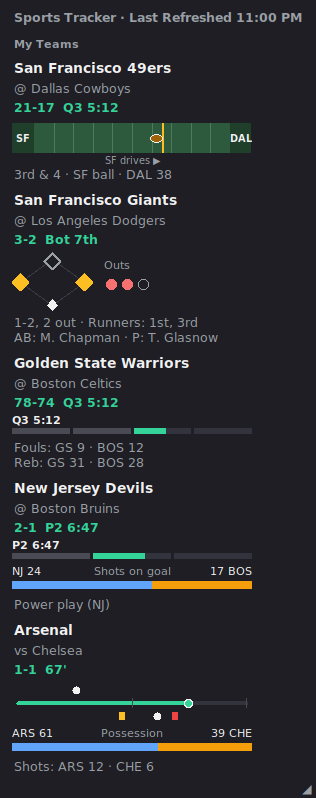
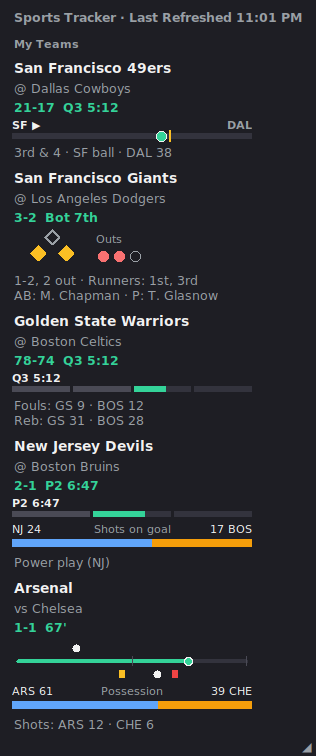
Football position as a thin line bar; compact base diamond without home plate
Claude-Session: https://claude.ai/code/session_01J2oDKnQWBXX8cHoFmZ2HA2

Changed region(s): [[0.0285, 0.0, 0.7975, 0.9735], [0.4272, 0.0, 0.9399, 0.0304]]

diff --git a/sports-widget/sports_widget.py b/sports-widget/sports_widget.py
@@ -774,38 +774,30 @@ def run_gui():
             c.create_oval(px(g["minute"]) - 4, 18, px(g["minute"]) + 4, 26, fill="#34d399", outline=FG)
             c.pack(anchor="w", pady=(2, 0))
         elif g["kind"] == "baseball":
-            c = tk.Canvas(parent, width=150, height=62, bg=BG, highlightthickness=0)
+            c = tk.Canvas(parent, width=150, height=42, bg=BG, highlightthickness=0)
             def base(cx, cy, on):
-                r = 8
+                r = 7
                 c.create_polygon(cx, cy - r, cx + r, cy, cx, cy + r, cx - r, cy, fill="#fbbf24" if on else BG,
                                  outline="#fbbf24" if on else DIM, width=2)
-            c.create_polygon(40, 8, 72, 31, 40, 54, 8, 31, outline="#3b3b46", fill="", width=1)
-            base(72, 31, g["bases"][0]); base(40, 10, g["bases"][1]); base(8, 31, g["bases"][2])
-            c.create_polygon(40, 48, 45, 54, 40, 59, 35, 54, fill=FG, outline=FG)  # home plate
-            c.create_text(92, 14, text="Outs", anchor="w", fill=DIM, font=("Segoe UI", 8))
+            base(40, 8, g["bases"][1]); base(54, 24, g["bases"][0]); base(26, 24, g["bases"][2])
+            c.create_text(84, 10, text="Outs", anchor="w", fill=DIM, font=("Segoe UI", 8))
             for i in range(3):
-                c.create_oval(94 + i * 16, 28, 104 + i * 16, 38, fill="#f87171" if i < g["outs"] else BG,
+                c.create_oval(86 + i * 16, 22, 96 + i * 16, 32, fill="#f87171" if i < g["outs"] else BG,
                               outline="#f87171" if i < g["outs"] else DIM, width=1)
             c.pack(anchor="w", pady=(2, 0))
         elif g["kind"] == "football":
-            W, H, EZ, PX = 240, 46, 22, 1.96  # field spans x in [EZ, EZ + 100 * PX]
+            W, H = 240, 24
             c = tk.Canvas(parent, width=W, height=H, bg=BG, highlightthickness=0)
-            x0, x1 = EZ, EZ + 100 * PX
-            c.create_rectangle(0, 4, x0, H - 12, fill="#1f3f2b", outline="")
-            c.create_rectangle(x1, 4, W - 1, H - 12, fill="#1f3f2b", outline="")
-            c.create_rectangle(x0, 4, x1, H - 12, fill="#2d5a3d", outline="")
+            px = lambda yd: W * yd / 100
+            c.create_rectangle(0, 14, W, 20, fill="#33333d", outline="")
             if g["red"]:
-                c.create_rectangle(x0 + 80 * PX, 4, x1, H - 12, fill="#5a2d2d", outline="")
-            for yd in range(10, 100, 10):
-                c.create_line(x0 + yd * PX, 4, x0 + yd * PX, H - 12, fill="#4d7a5c")
-            c.create_text(x0 / 2, 4 + (H - 16) / 2, text=g["off"], fill=FG, font=("Segoe UI", 7, "bold"))
-            c.create_text((x1 + W) / 2, 4 + (H - 16) / 2, text=g["def"], fill=FG, font=("Segoe UI", 7, "bold"))
+                c.create_rectangle(px(80), 14, W, 20, fill="#7f3b3b", outline="")
             if g["first"] is not None:
-                fx = x0 + g["first"] * PX
-                c.create_line(fx, 4, fx, H - 12, fill="#fbbf24", width=2)
-            bx = x0 + g["x"] * PX
-            c.create_oval(bx - 6, 4 + (H - 16) / 2 - 4, bx + 6, 4 + (H - 16) / 2 + 4, fill="#a16207", outline=FG)
-            c.create_text(x0 + 50 * PX, H - 5, text=f"{g['off']} drives \u25b6", fill=DIM, font=("Segoe UI", 7))
+                c.create_line(px(g["first"]), 11, px(g["first"]), 23, fill="#fbbf24", width=2)
+            bx = px(g["x"])
+            c.create_oval(bx - 5, 12, bx + 5, 22, fill="#34d399", outline=FG)
+            c.create_text(0, 6, text=f"{g['off']} \u25b6", anchor="w", fill=FG, font=("Segoe UI", 8, "bold"))
+            c.create_text(W, 6, text=g["def"], anchor="e", fill=DIM, font=("Segoe UI", 8, "bold"))
             c.pack(anchor="w", pady=(2, 0))
 
     def add_rows(rows):
